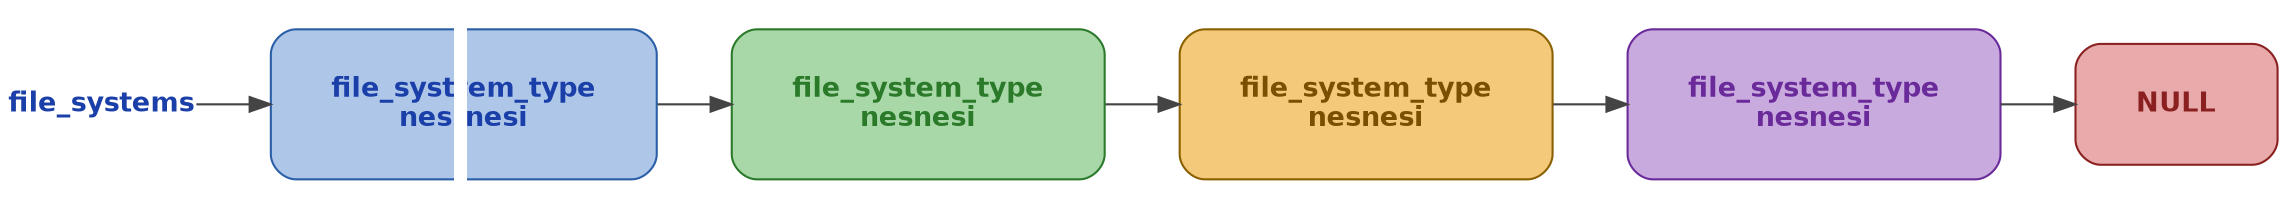
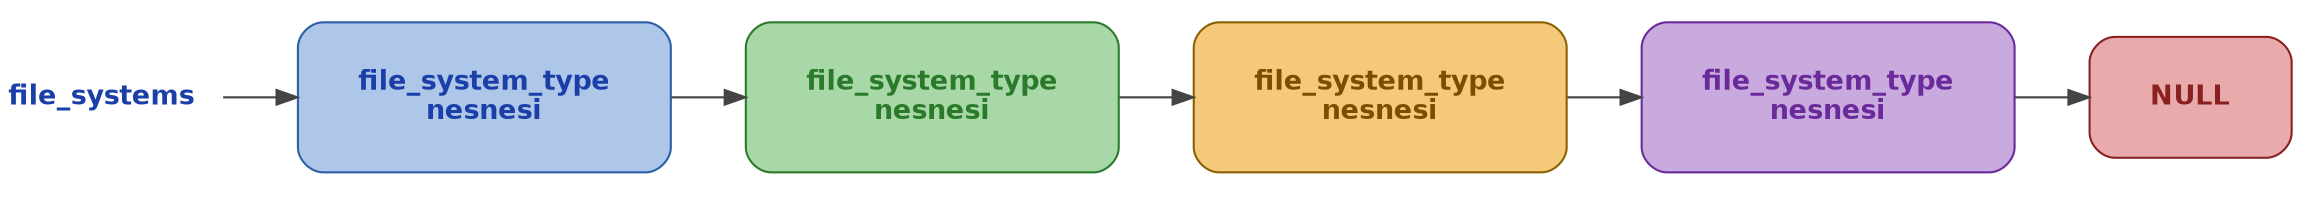
Update

diff --git a/docs/source/filesystem1.rst b/docs/source/filesystem1.rst
@@ -2660,7 +2660,7 @@ Açık Dosyalara İlişkin Alıştırmalar
 Şimdi dosya sisteminin temel veri yapıları üzerinde görmüş olduğumuz konulara ilişkin bazı
 alıştırmalar yapalım. Alıştırmaların kodlarını en sonunda bir bütün olarak vereceğiz. 
 
-``f_pos`` Elemanının Elde Edilmesi
+f_pos Elemanının Elde Edilmesi
 ----------------------------------
 
 İlk örneğimizde bir dosya betimleyicisine ilişkin dosya nesnesini elde ederek onun ``f_pos`` elemanını
@@ -2849,7 +2849,7 @@ Bir süre önceye kadar ``fdget`` ve ``fdput`` export edilmemişti. Ancak günce
 Her ne kadar yeni çekirdeklerde ``fdget`` ve ``fdput`` daha hızlı çalışıyorsa da ``fget`` ve ``fput``
 basit arayüzü ve kullanım kolaylığı ve eskiden beri aynı biçimde bulunması nedeniyle tercih edilebilir.
 
-``dup`` Fonksiyonunun Gerçekleştirimi
+dup Fonksiyonunun Gerçekleştirimi
 -------------------------------------
 
 Şimdi de ``dup`` POSIX fonksiyonunun işlevini yerine getiren (yani ``sys_dup`` sistem fonksiyonu gibi
@@ -3524,10 +3524,9 @@ Görüldüğü gibi ``openat`` sistem fonksiyonu da aslında ``do_sys_open`` fon
     }
 
 Fonksiyonda önce ``build_open_how`` fonksiyonu çağrılmıştır. Bu fonksiyon açış bayraklarını ve
-erişim haklarını
-bazı kontroller uygulayarak ek bir yapı içinde toplamaktadır. Fonksiyonun bu işlemden sonra ``do_sys_openat2``
-fonksiyonunu çağırdığını görüyorsunuz. Güncel çekirdeklerde bu fonksiyon da *fs/open.c* dosyasında şöyle
-tanımlanmıştır:
+erişim haklarını bazı kontroller uygulayarak ek bir yapı içinde toplamaktadır. Fonksiyonun bu işlemden 
+sonra ``do_sys_openat2`` fonksiyonunu çağırdığını görüyorsunuz. Güncel çekirdeklerde bu fonksiyon da *fs/open.c* 
+dosyasında şöyle tanımlanmıştır:
 
 .. code-block:: c
 
@@ -3884,7 +3883,7 @@ içi 0'larla dolu dinamik tahsisat yapmaktadır. Modülü yükledikten sonra oku
 
 
 Çekirdeğin 0.01 Versiyonundaki sys_open Fonksiyonu
--------------------------------------------------
+--------------------------------------------------
 
 Şimdi yeniden çekirdeğin öğrenci ödevi gibi olan ilkel 0.01 versiyonundaki ``sys_open`` fonksiyonuna göz
 gezdirelim:
@@ -6264,7 +6263,7 @@ tanımlanmıştır:
        return -EINVAL;
    }
 
-``file_system_type`` Nesnesinin İçinin Doldurulması  
+file_system_type Nesnesinin İçinin Doldurulması  
 ---------------------------------------------------
 
 Güncel Linux çekirdeklerinde ``file_system_type`` nesnesinin dosya sistemini yazanlar tarafından doldurması 